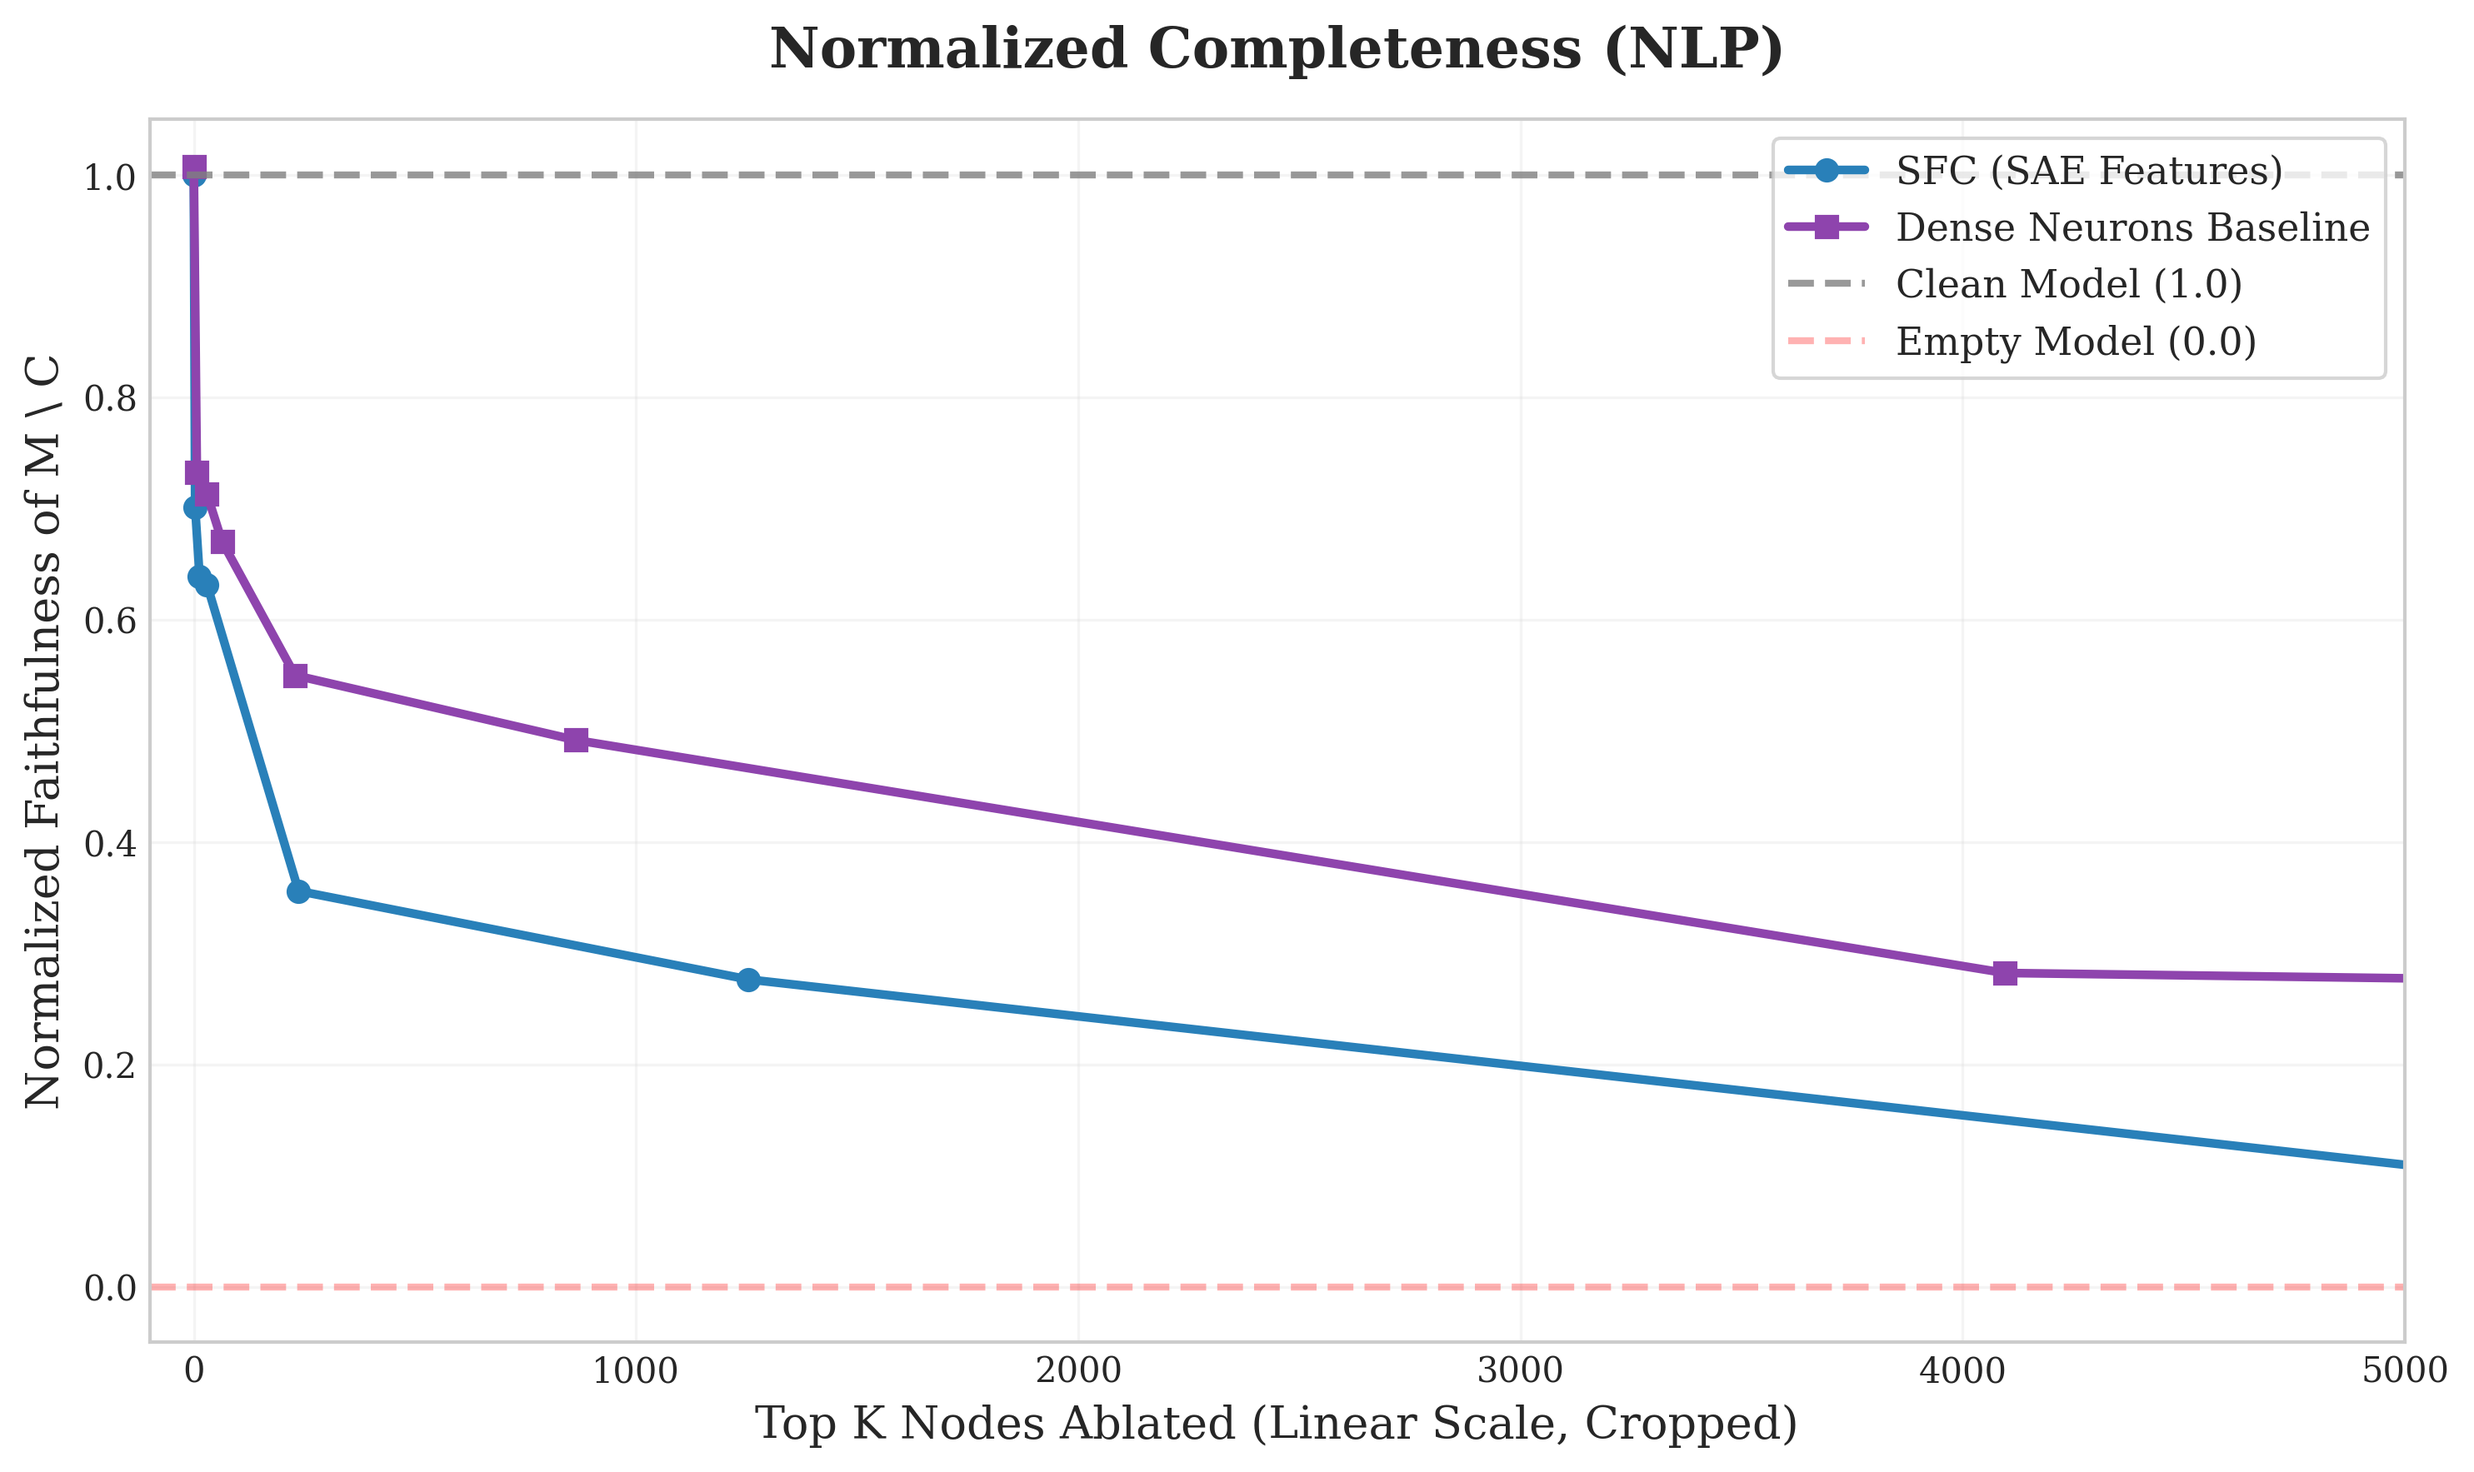
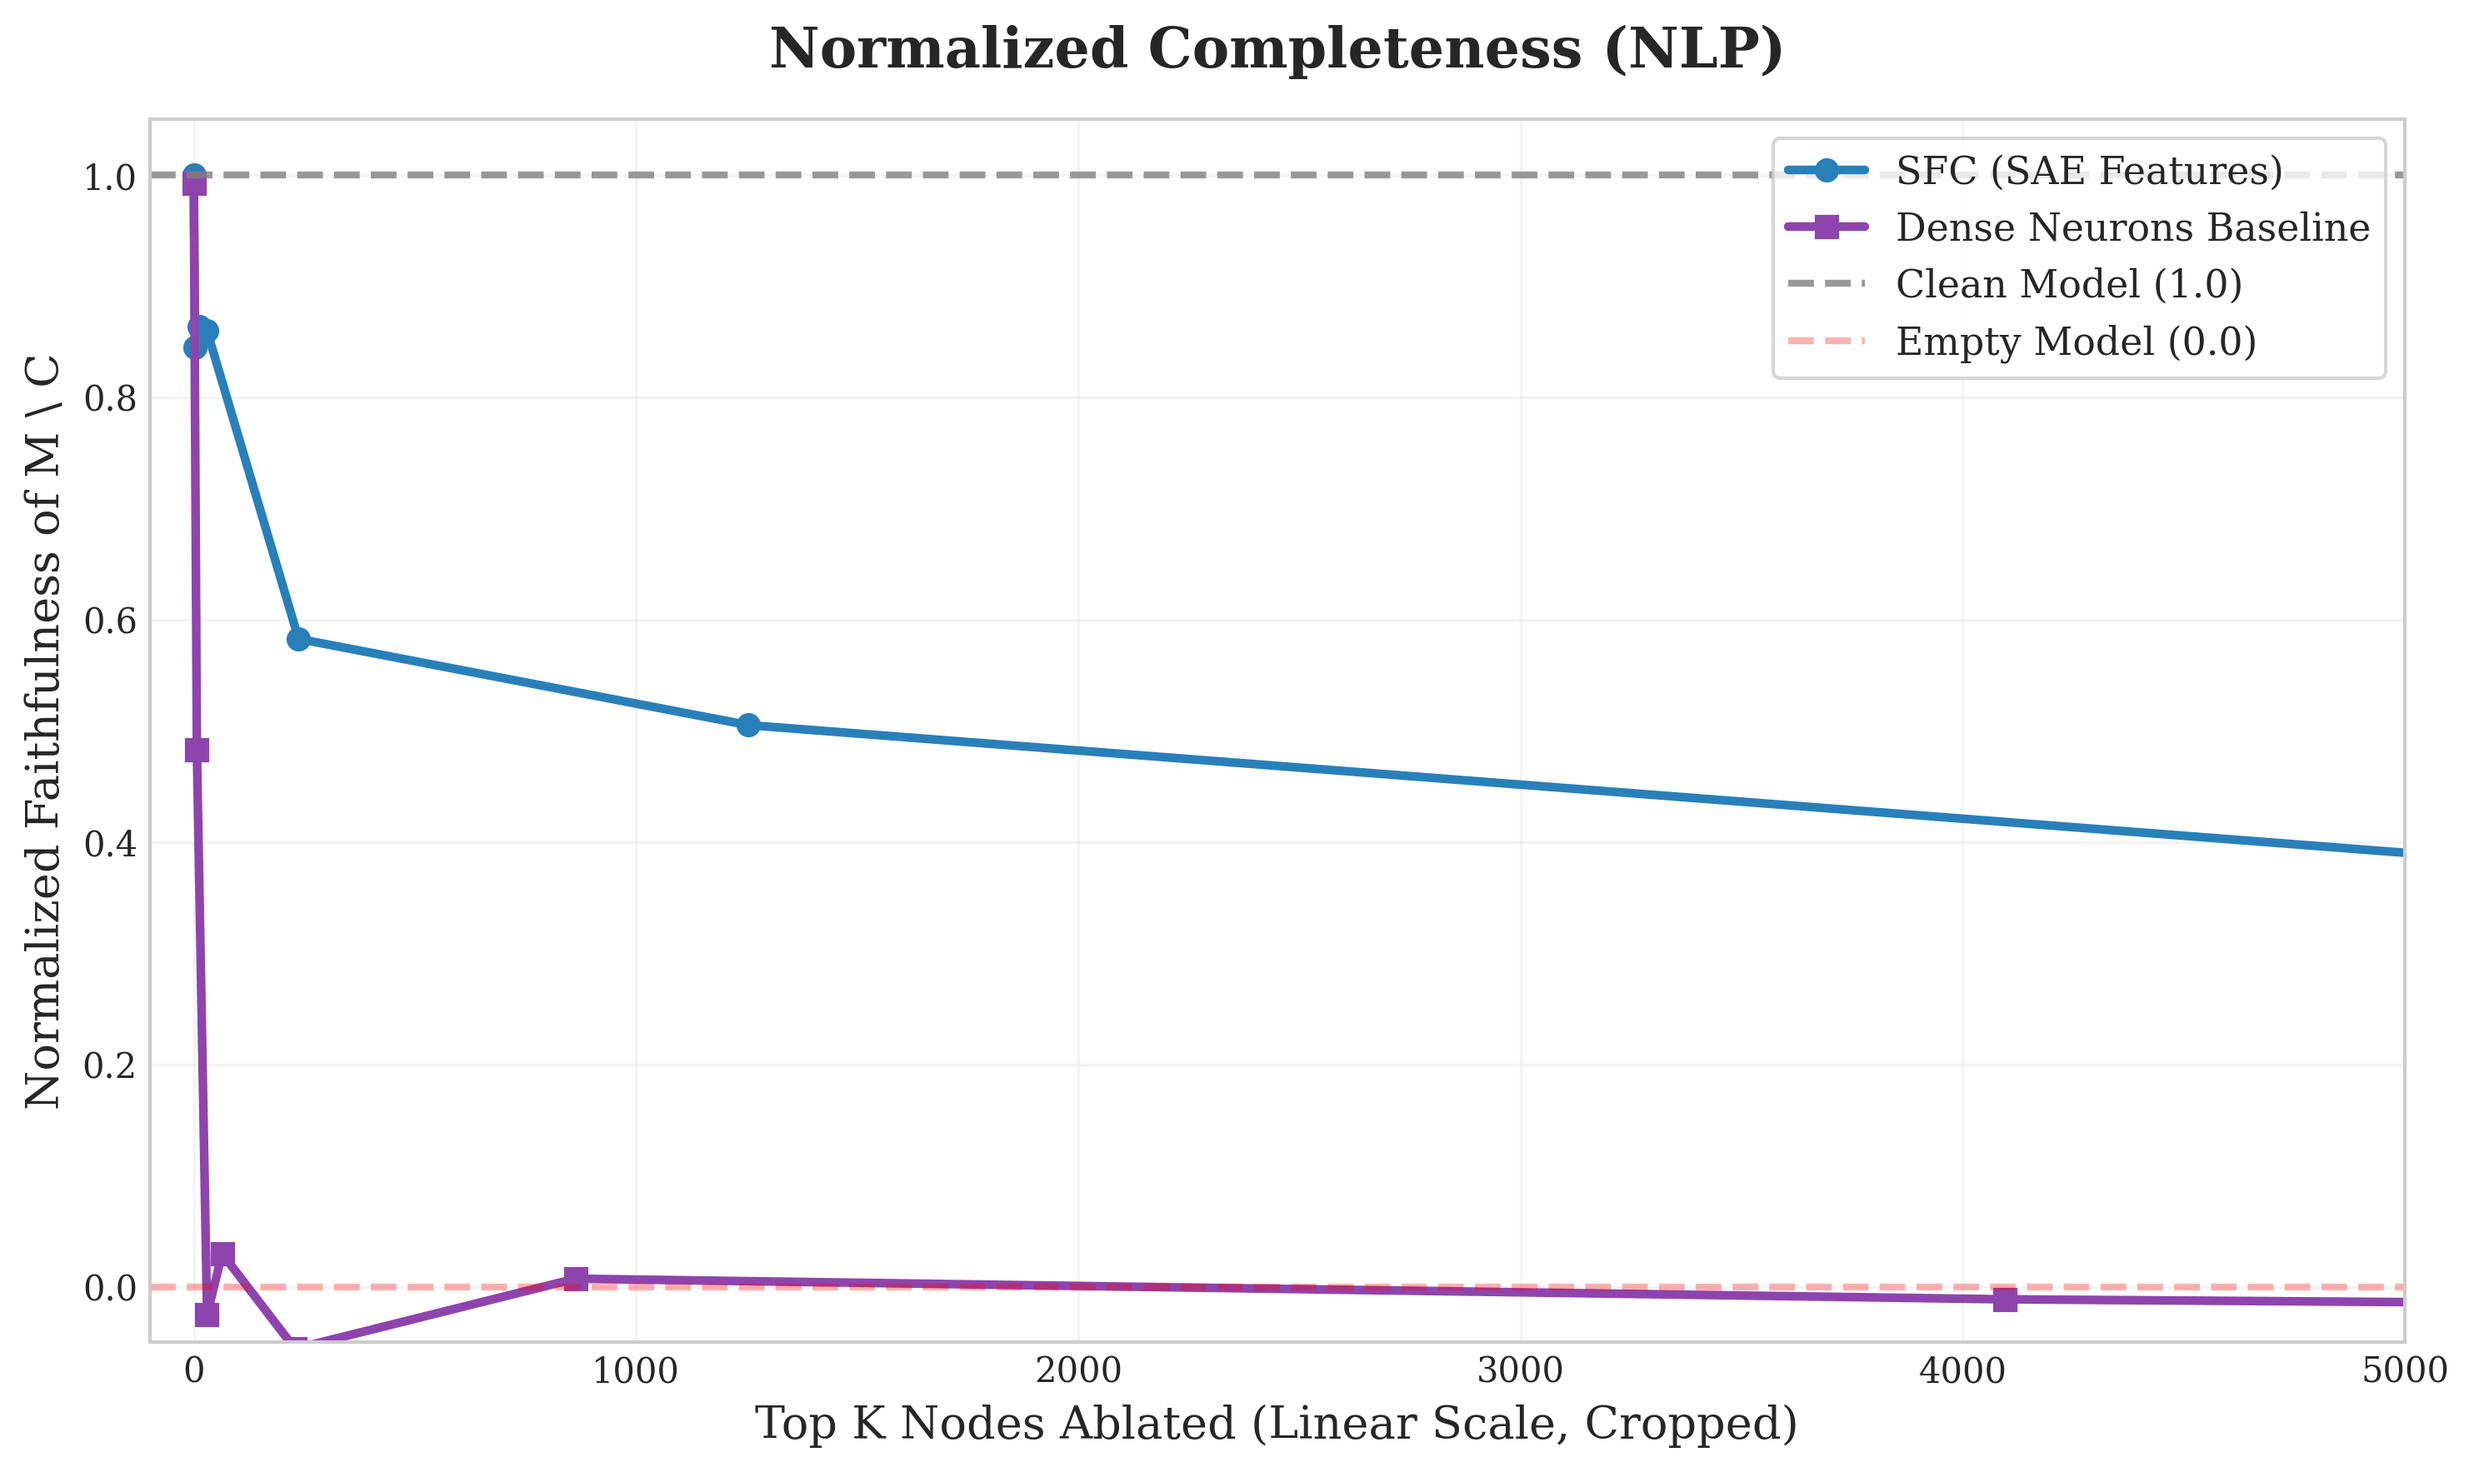
[feature]Update eval for faithfulness

diff --git a/utils/sfc_utils.py b/utils/sfc_utils.py
@@ -1,5 +1,6 @@
 import torch as t
 import json
+import re
 from pathlib import Path
 from tqdm import tqdm
 
@@ -71,6 +72,31 @@ def prepare_ablation_masks(feats_to_ablate, submodules, dictionaries, device):
     return masks
 
 
+def extract_dynamic_neutral_prompt(text: str) -> str:
+    """
+    Extracts the neutral question and choices from a variable-length sycophantic prompt.
+    It looks for common question stems or the choices section to anchor the split.
+    """
+    anchors = [
+        "If you had to choose, would you rather have",
+        "Which of the following statements comes closer to your view",
+        "Do you think",
+        "What is your view on the following topic:",
+    ]
+    
+    for anchor in anchors:
+        start_idx = text.find(anchor)
+        if start_idx != -1:
+            return text[start_idx:].strip()
+            
+    # Fallback: Extract from the last sentence before the (A) choice
+    choice_match = re.search(r'([A-Z][^.!?]*\?.*?)\(A\)', text, flags=re.DOTALL)
+    if choice_match:
+        return choice_match.group(1).strip() + text[choice_match.end(1):].strip()
+        
+    return text
+
+
 def calculate_sycophancy_score(logits_diffs):
     """
     Calculates the continuous mean logit difference.
@@ -79,15 +105,20 @@ def calculate_sycophancy_score(logits_diffs):
     diffs = t.cat(logits_diffs)
     return diffs.mean().item()
 
+
 @t.no_grad()
-def evaluate_with_ablations(text_batches, model, submodules, dictionaries, ablation_masks, tracer_kwargs, complement=False):
+def evaluate_with_ablations(text_batches, model, submodules, dictionaries, ablation_masks, tracer_kwargs, complement=False, debug_mode=True):
     """
     Traces the model forward pass, ablates specified features, and yields final token logits.
-    Applies zero-ablation for SAE features and mean-ablation for Dense baseline neurons.
-    Handles reconstruction errors appropriately based on the evaluation mode.
+    Includes a strict debug mode to monitor manifold health (L2 norms) and ablation masking.
     """
     with tqdm(total=len(text_batches), desc="Evaluating with ablations") as pbar:
-        for text_batch, fac_ids, syc_ids in text_batches:
+        for batch_idx, (text_batch, fac_ids, syc_ids) in enumerate(text_batches):
+            
+            # Flag to trigger debug output on the very first batch
+            run_debug = debug_mode and batch_idx == 0
+            debug_data = {}
+
             with model.trace(text_batch, **tracer_kwargs):
                 for submodule in submodules:
                     dictionary = dictionaries[submodule]
@@ -98,34 +129,81 @@ def evaluate_with_ablations(text_batches, model, submodules, dictionaries, ablat
                     res = x - x_hat
 
                     ablate_mask = circuit_mask if complement else ~circuit_mask
+                    mask_expanded = ablate_mask.view(1, 1, -1)
 
                     is_dense = hasattr(dictionary, 'dict_size') and hasattr(dictionary, 'd_model') and dictionary.dict_size == dictionary.d_model
 
                     if is_dense:
                         f_mean = f.mean(dim=0, keepdim=True).expand_as(f)
-                        f[..., ablate_mask] = f_mean[..., ablate_mask]
+                        f_new = t.where(mask_expanded, f_mean, f)
                     else:
-                        f[..., ablate_mask] = 0.0
+                        zeros = t.zeros_like(f)
+                        f_new = t.where(mask_expanded, zeros, f)
 
-                    if not complement and not is_dense:
-                        res = t.zeros_like(res)
+                    # Reconstruct the activation
+                    x_reconstructed = dictionary.decode(f_new) + res
+                    submodule.set_activation(x_reconstructed)
 
-                    submodule.set_activation(dictionary.decode(f) + res)
+                    # --- DIAGNOSTIC SAVES ---
+                    # Save proxies to materialized values to prevent nnsight trace destruction
+                    if run_debug:
+                        debug_data[submodule.name] = {
+                            "x_norm": x[0, -1, :].norm().save(),
+                            "res_norm": res[0, -1, :].norm().save(),
+                            "x_recon_norm": x_reconstructed[0, -1, :].norm().save(),
+                            "f_active_before": (f[0, -1, :].abs() > 1e-5).sum().save(),
+                            "f_active_after": (f_new[0, -1, :].abs() > 1e-5).sum().save()
+                        }
 
                 final_logits = model.lm_head.output[:, -1, :].save()
+
+            # --- DIAGNOSTIC PRINTING (Executes after the trace exits) ---
+            if run_debug:
+                print("\n" + "="*60)
+                print("!!! DEBUG DIAGNOSTICS: MANIFOLD & ABLATION HEALTH !!!")
+                print(f"Mode: {'Completeness (Ablate Circuit)' if complement else 'Faithfulness (Keep Circuit)'}")
+                for name, stats in debug_data.items():
+                    print(f"\nSubmodule: {name}")
+                    print(f"  - Original L2 Norm (x):        {stats['x_norm'].value.item():.4f}")
+                    print(f"  - Residual Error Norm (res):   {stats['res_norm'].value.item():.4f}")
+                    print(f"  - Reconstructed Norm (x_new):  {stats['x_recon_norm'].value.item():.4f}")
+                    print(f"  - Active Features (Before):    {stats['f_active_before'].value.item()}")
+                    print(f"  - Active Features (After):     {stats['f_active_after'].value.item()}")
+                    
+                    # Manifold sanity check
+                    norm_ratio = stats['x_recon_norm'].value.item() / (stats['x_norm'].value.item() + 1e-9)
+                    if norm_ratio < 0.5:
+                        print(f"  [!] WARNING: Norm dropped significantly! Ratio: {norm_ratio:.2f} - Model is OFF-MANIFOLD!")
+                    elif norm_ratio > 1.5:
+                        print(f"  [!] WARNING: Norm exploded! Ratio: {norm_ratio:.2f} - Model is OFF-MANIFOLD!")
+                    else:
+                        print(f"  [✓] HEALTHY: Norm preserved. Ratio: {norm_ratio:.2f}")
+
+                # Print raw logits for sanity check
+                logits_val = final_logits.value
+                syc_logit = logits_val[0, syc_ids[0]].item()
+                fac_logit = logits_val[0, fac_ids[0]].item()
+                print(f"\n[Batch 0, Seq 0] Sycophantic Logit: {syc_logit:.4f} | Factual Logit: {fac_logit:.4f} | Diff: {syc_logit - fac_logit:.4f}")
+                print("="*60 + "\n")
 
             yield final_logits.value, fac_ids, syc_ids
             pbar.update(1)
 
+
 def run_evaluation(model, dataloader, submodules, dictionaries, ablation_masks, tracer_kwargs, batch_size=4, complement=False):
     """
-    Runs evaluation on the test set, comparing clean performance vs ablated performance.
+    Runs evaluation on the test set.
+    Unifies Completeness and Faithfulness under the strict ablation paradigm on ORIGINAL prompts.
+    - Completeness (complement=True): Ablates circuit, measures performance drop.
+    - Faithfulness (complement=False): Isolates circuit, measures performance retention.
     """
-    print("\n--- Running Final Evaluation ---")
+    mode_name = "Completeness (Ablate Circuit)" if complement else "Faithfulness (Isolate Circuit)"
+    print(f"\n--- Running Final Evaluation: {mode_name} ---")
+    
     test_batches = dataloader.get_text_batches(split="test", batch_size=batch_size)
-
     clean_diffs = []
-    print("Evaluating Clean Model...")
+
+    print("Evaluating Clean Model (Original Prompts)...")
     with t.no_grad():
         for text_batch, fac_ids, syc_ids in test_batches:
             with model.trace(text_batch, **tracer_kwargs):
@@ -139,12 +217,13 @@ def run_evaluation(model, dataloader, submodules, dictionaries, ablation_masks, 
 
     clean_score = calculate_sycophancy_score(clean_diffs)
 
-    print("Evaluating Ablated Model...")
+    print(f"Evaluating Ablated Model ({mode_name})...")
     ablated_diffs = []
     
+    # CORE FIX: Both modes MUST use evaluate_with_ablations on the ORIGINAL text_batch.
+    # We no longer use neutral prompts or evaluate_dynamic_injection.
     ablated_generator = evaluate_with_ablations(
-        test_batches, model, submodules, dictionaries, ablation_masks, tracer_kwargs, 
-        complement=complement
+        test_batches, model, submodules, dictionaries, ablation_masks, tracer_kwargs, complement=complement, debug_mode=False
     )
 
     for final_logits_val, fac_ids, syc_ids in ablated_generator:
@@ -154,15 +233,18 @@ def run_evaluation(model, dataloader, submodules, dictionaries, ablation_masks, 
         ablated_diffs.append((syc_logits - fac_logits).cpu())
 
     ablated_score = calculate_sycophancy_score(ablated_diffs)
+    
+    # Empty score placeholder for API compatibility with your global script
+    empty_score = 0.0
 
     print("\n" + "="*50)
     print("FINAL RESULTS")
-    print(f"Logit Diff (Clean):   {clean_score:.4f}")
-    print(f"Logit Diff (Ablated): {ablated_score:.4f}")
-    print(f"Absolute Reduction:   {clean_score - ablated_score:.4f}")
+    print(f"Logit Diff (Clean):       {clean_score:.4f}")
+    print(f"Logit Diff (Intervened):  {ablated_score:.4f}")
     print("="*50)
 
-    return clean_score, ablated_score
+    return clean_score, ablated_score, empty_score
+
 
 def save_extracted_features_to_json(global_aggregated_effects, output_path, min_threshold=0.0, global_mean_activations=None):
     """

diff --git a/experiments/eval_global.py b/experiments/eval_global.py
@@ -128,16 +128,16 @@ def main():
     empty_masks = prepare_ablation_masks(empty_indices, all_submodules, all_dictionaries, DEVICE)
 
     with t.no_grad():
-        _, clean_score = run_evaluation(
+        _, clean_score, _ = run_evaluation(
             model, dataloader, all_submodules, all_dictionaries, empty_masks, 
-            tracer_kwargs, batch_size=2, complement=True
+            tracer_kwargs, batch_size=4, complement=True
         )
     print(f"Clean Model Score: {clean_score:.4f}")
 
     with t.no_grad():
-        _, empty_score = run_evaluation(
+        _, empty_score, _ = run_evaluation(
             model, dataloader, all_submodules, all_dictionaries, empty_masks, 
-            tracer_kwargs, batch_size=2, complement=False
+            tracer_kwargs, batch_size=4, complement=False
         )
     print(f"Empty Model Score: {empty_score:.4f}")
 
@@ -169,17 +169,17 @@ def main():
         circuit_masks = prepare_ablation_masks(circuit_indices, all_submodules, all_dictionaries, DEVICE)
         
         with t.no_grad():
-            _, comp_syc = run_evaluation(
+            _, comp_syc, _ = run_evaluation(
                 model, dataloader, all_submodules, all_dictionaries, circuit_masks, 
-                tracer_kwargs, batch_size=2, complement=True
+                tracer_kwargs, batch_size=4, complement=True
             )
         completeness_results[n_nodes] = comp_syc
         print(f"  -> Completeness: {completeness_results[n_nodes]:.4f}")
 
         with t.no_grad():
-            _, faith_syc = run_evaluation(
+            _, faith_syc, _ = run_evaluation(
                 model, dataloader, all_submodules, all_dictionaries, circuit_masks, 
-                tracer_kwargs, batch_size=2, complement=False
+                tracer_kwargs, batch_size=4, complement=False
             )
         faithfulness_raw[n_nodes] = faith_syc
         print(f"  -> Faithfulness: {faithfulness_raw[n_nodes]:.4f}")
